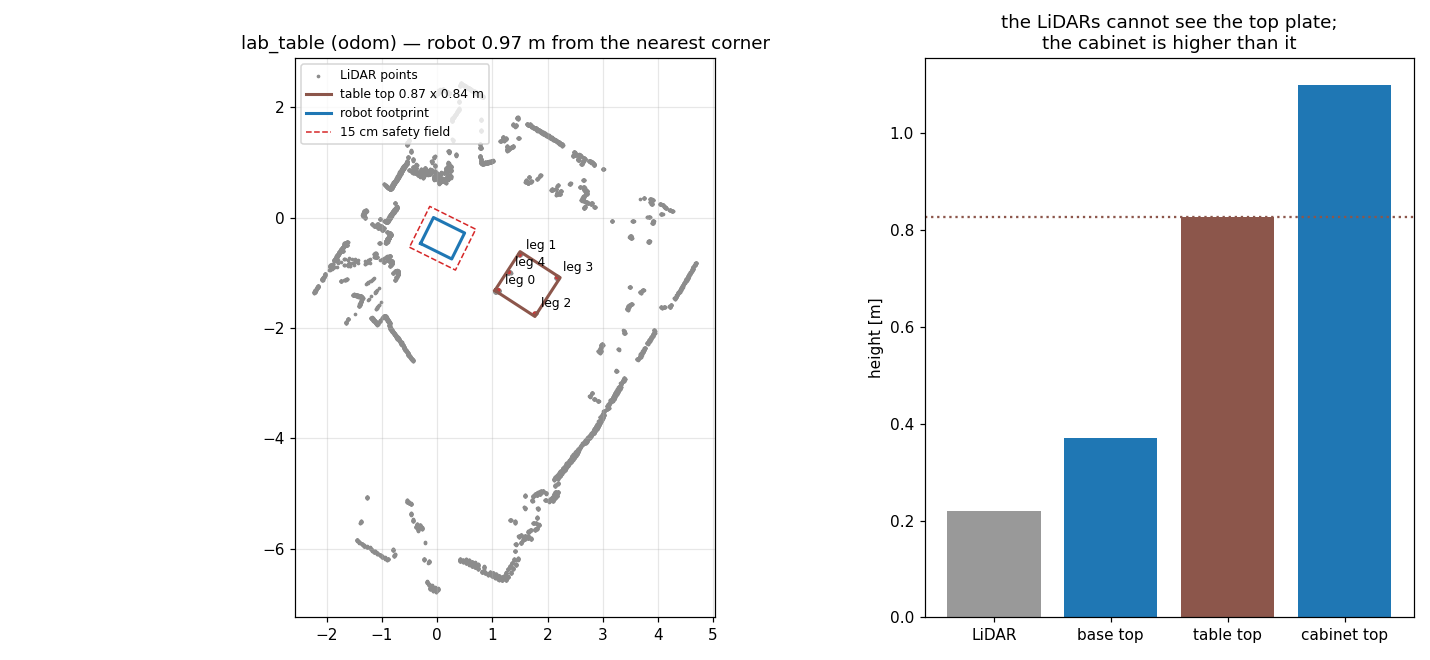
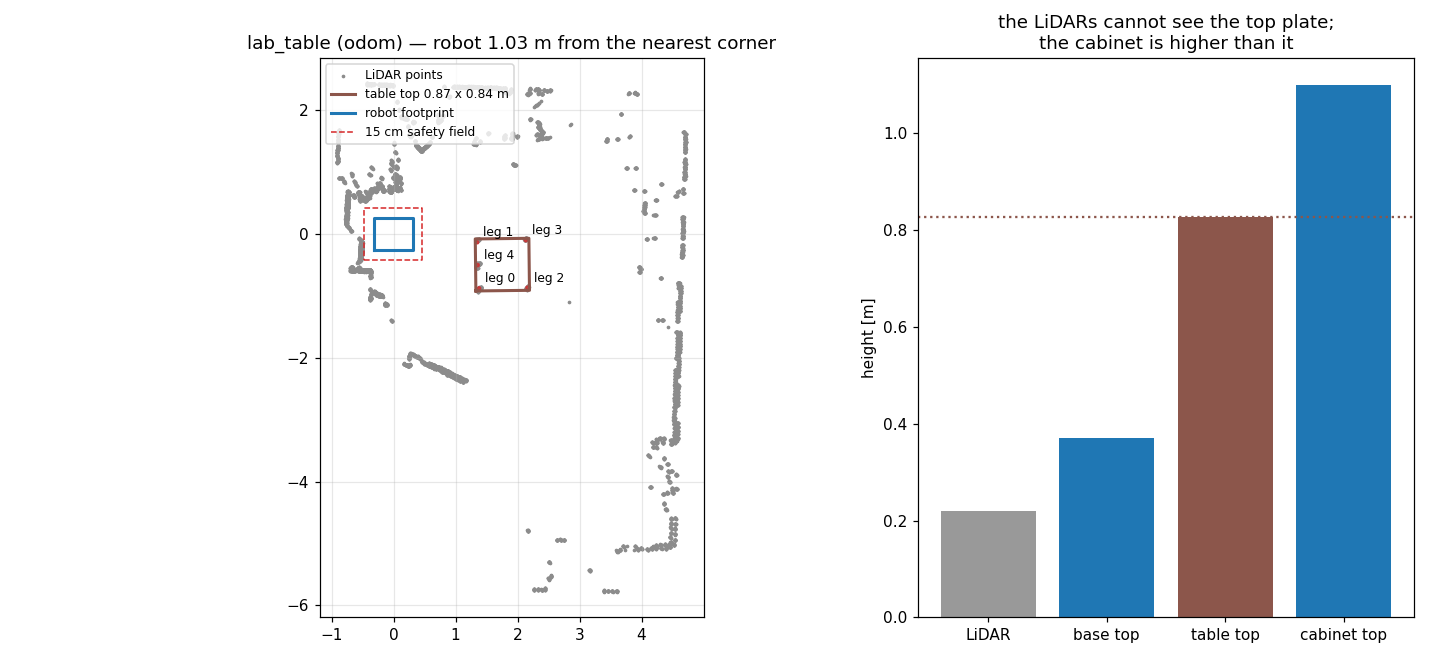
Add Explore

diff --git a/steve_wbc/active_perception_wbc.py b/steve_wbc/active_perception_wbc.py
@@ -2886,11 +2886,13 @@ class ActivePerceptionWBC:
         # time base AND arm stood still before the grasp descent (--approach move: should be ~0; a VGN
         # hover at the pre-grasp moves with the object, so it only counts for a static one)
         self.still_before_grasp, self.t_reach = 0.0, None
-        # explore pose (--approach move + table): the arm raised, the (tilted) camera forward-down over the table;
+        # explore pose (--approach move + table): home, the (tilted) camera forward-down over the table;
         # from ANY start pose (drive pose, "parked", ...) the arm goes there first — no camera aiming meanwhile
         # (a folded, wrist-singular arm only chattered against it) — then the camera explores the table
         move_explore = a.approach == "move" and self._can_plan()
-        self.explore_q = list(SCAN_SEED_Q) if move_explore else list(DRIVE_POSE)
+        # = the named state "explore" (steve_manipulation SRDF): home with the camera tilted at the table
+        # (--camera_tilt, 25 deg with the D415 on the flange); the visibility task then aims it
+        self.explore_q = list(DRIVE_POSE)
         off = float(np.max(np.abs(wrap_angle(st.q - np.asarray(self.explore_q)))))
         self.unparking = off > (UNPARK_TOL[1] if move_explore else UNPARK_TOL[0])
         if self.unparking:
